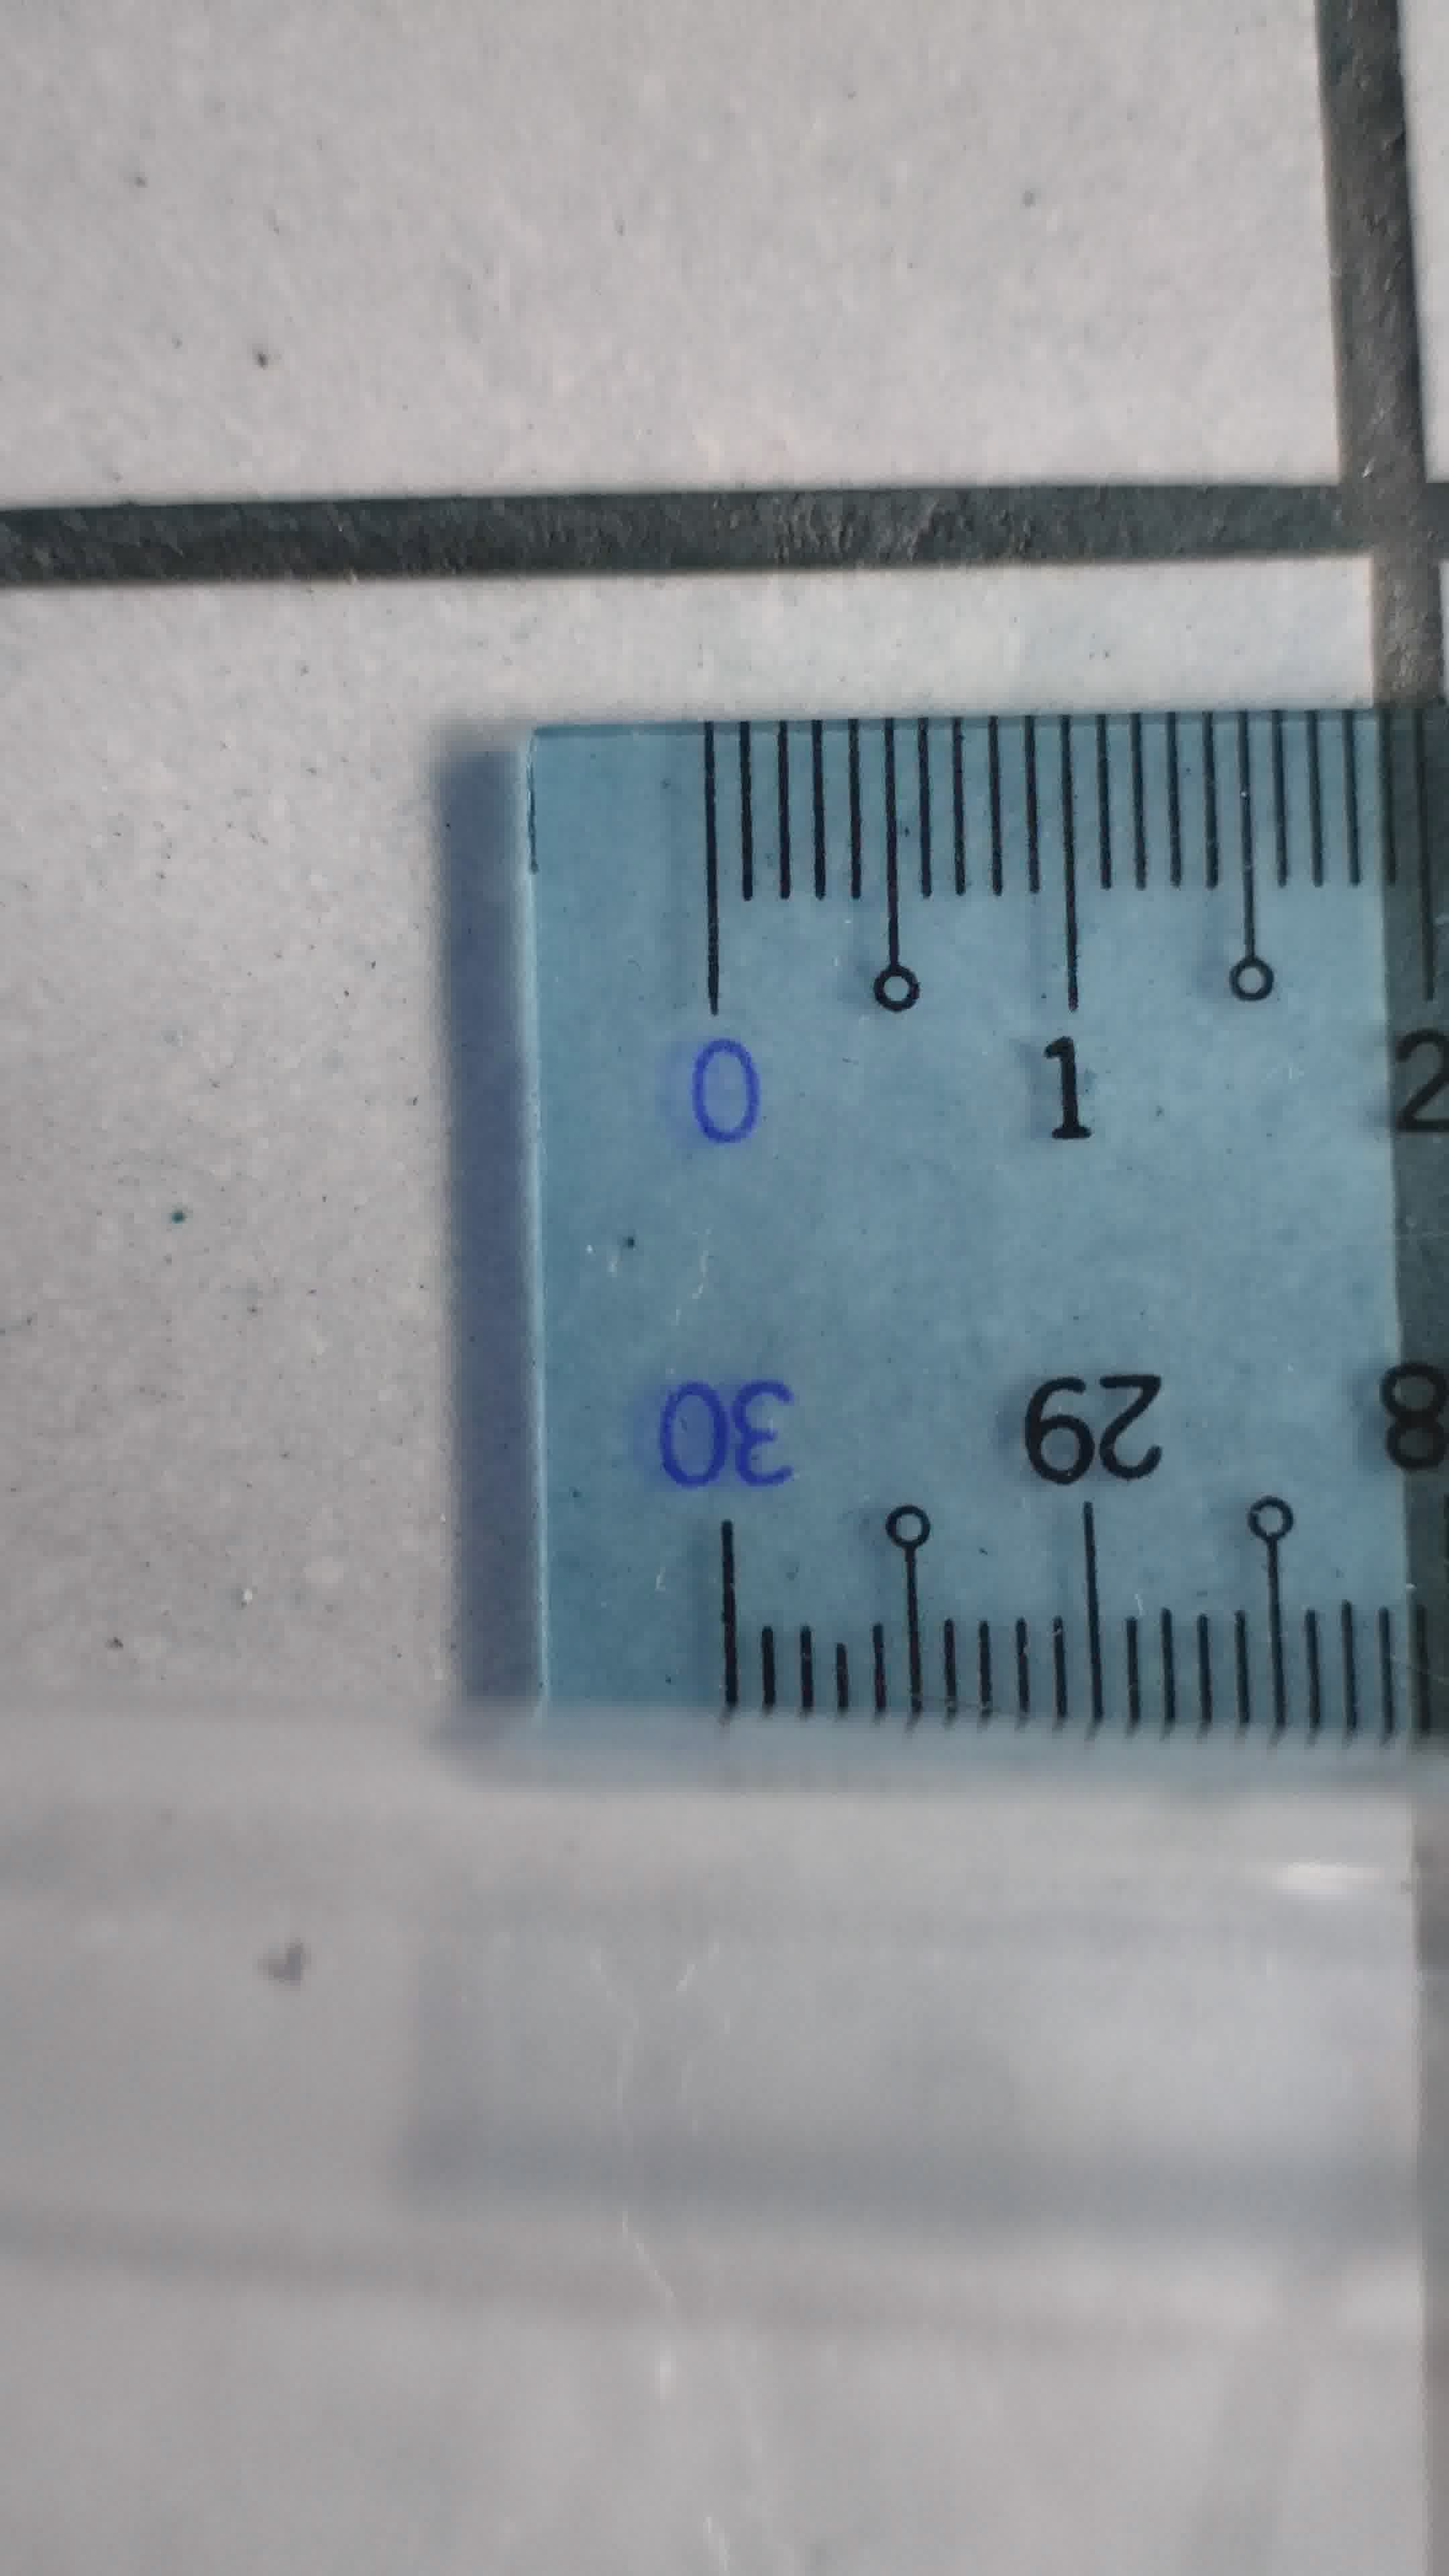
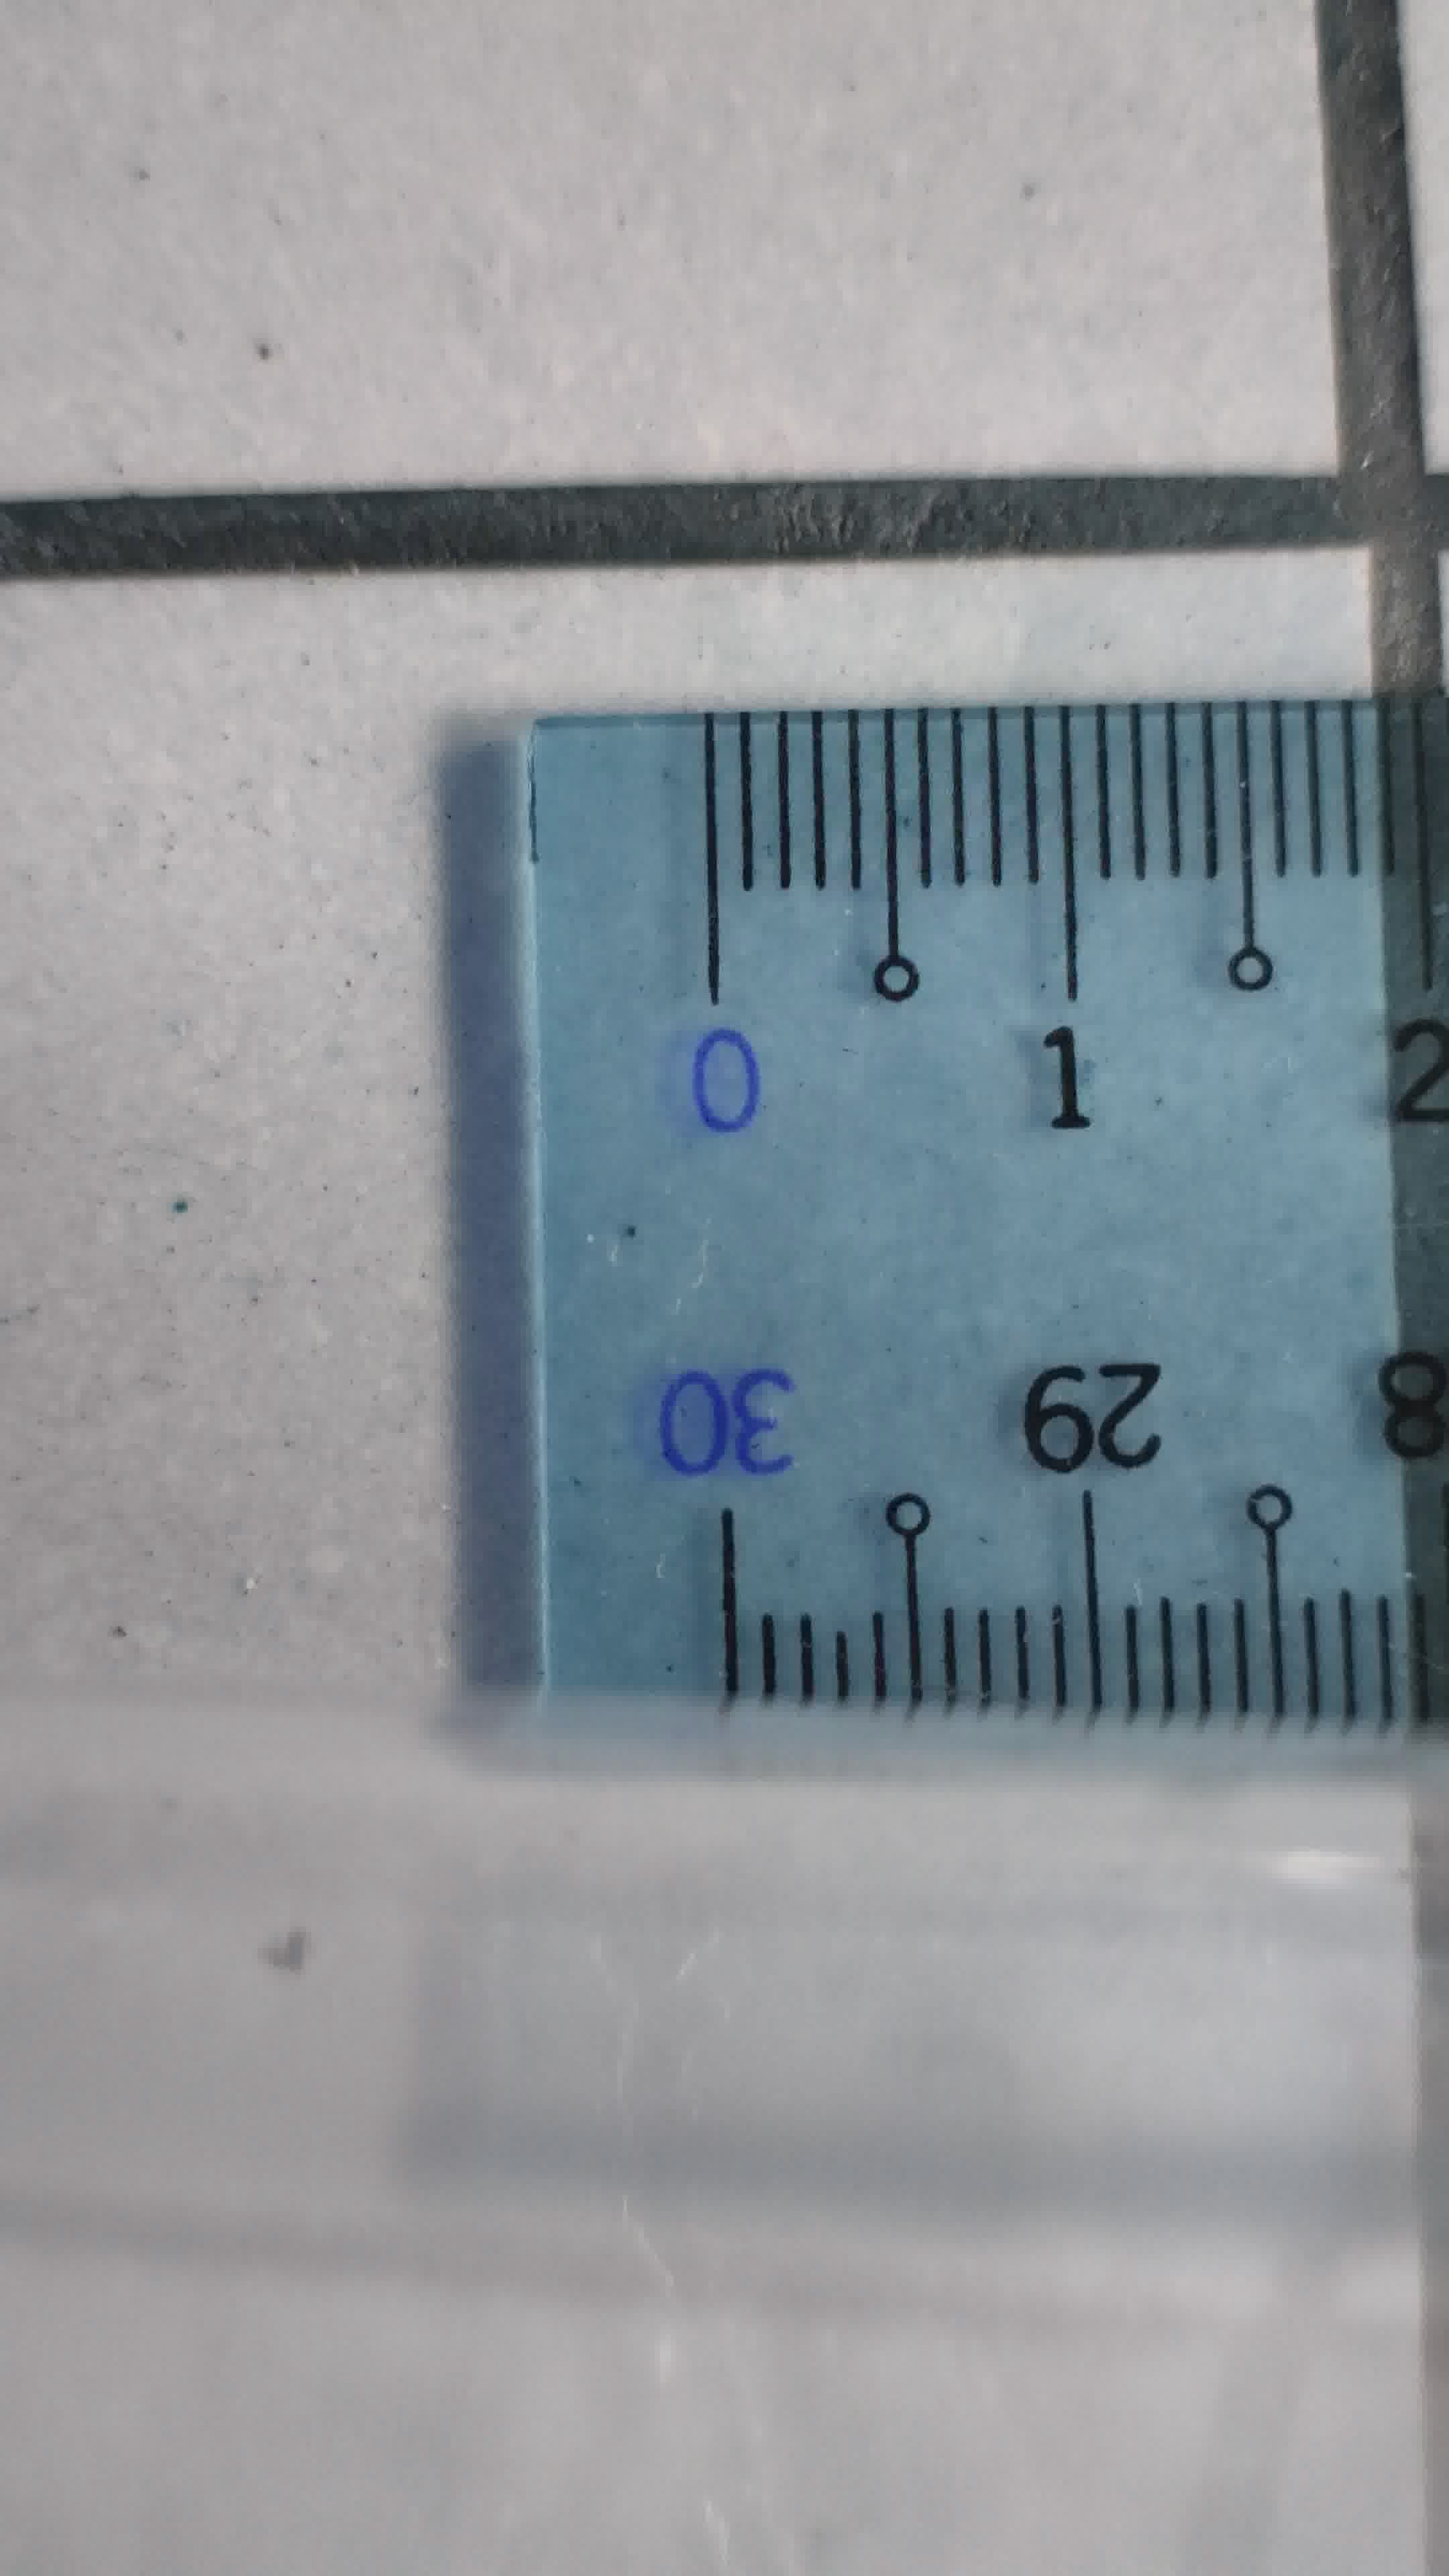
dd

diff --git a/doc/examples/SDLmain.cpp b/doc/examples/SDLmain.cpp
@@ -678,14 +678,15 @@ SDL_Texture* DuplicateAndScaleTexture(SDL_Renderer* renderer, SDL_Texture* srcTe
   SDL_SetRenderTarget(renderer, oldTarget);
   return dupTex;
 }
-void testToolBox2(const char *fname,const char *fDirectory,int x,int y);
+void testToolBox2(const char *fname,const char *fDirectory,int frame_index,int x,int y);
 void loadtmp(void);
-void getYUV(int frame_index,int x,int y,int *Y,int *U,int *V);
+void getYUV(const char *fDirectory,int frame_index,int x,int y,int *Y,int *U,int *V);
 int generateMP4(const char *path,const char cprefix);
 void generateTXT(void); //it need all data
 int dfvmux3diff_main(int argc, char **argv);
 void callext(const char *exename);
 void BLUE3x4(void);
+void act2(const char *fDirectory,int fi[]);
 //matrix computation
 #include "matrix.h"
 int sdl_main(int argc, char* argv[]) {
@@ -1037,10 +1038,11 @@ Redraw:
               if(ptClick.y<0) y0=0;
               if(picSN_FreeMode==0) picSN_FreeMode=1;
               sprintf(fname,"%s/x%04d.jpg",fDirectory,picSN_FreeMode);
-              testToolBox2(fname,fDirectory,x0,y0);
-              sprintf(fname,"%s/tmp.jpg",fDirectory);
+              testToolBox2(fname,fDirectory,picSN_FreeMode,x0,y0);
+              sprintf(fname,"img/x%04dt.jpg",picSN_FreeMode);
               surface = IMG_Load(fname);
               texture = SDL_CreateTextureFromSurface(gRenderer, surface);
+              SDL_FreeSurface(surface);
               scaleTexture = DuplicateAndScaleTexture(gRenderer, texture);
               PromptText = "testToolBox2 done!";
               printf("Enter Return pressed![%s](%d,%d))!\n",inputText.c_str(),ptClick.x,ptClick.y);
@@ -1070,8 +1072,8 @@ Redraw:
                 int x0=ptClick.x;
                 int y0=ptClick.y;
                 int Y0,U0,V0;
-                getYUV(frame_index0,x0,y0,&Y0,&U0,&V0);
-                sprintf(Prompt,"pt [%4d,%4d]=[%3d,%3d,%3d],[%3d,%3d,%3d]",x0,y0,Y0,U0,V0,
+                getYUV(fDirectory,frame_index0,x0,y0,&Y0,&U0,&V0);
+                sprintf(Prompt,"[%4d,%4d]=[%3d,%3d,%3d],[%3d,%3d,%3d]",x0,y0,Y0,U0,V0,
                   YUV2R(Y0,U0,V0),YUV2G(Y0,U0,V0),YUV2B(Y0,U0,V0));
                 PromptText = Prompt;
                 printf("Enter Return pressed![%s][%s]!\n",inputText.c_str(),Prompt);
@@ -1083,6 +1085,7 @@ Redraw:
             }
             else if(!memcmp(inputText.c_str(),"setsn",5)) {
               picSN_FreeMode=atoi(&inputText.c_str()[6]);
+              frame_index=picSN_FreeMode;
               printf("SN=%d\n",picSN_FreeMode);
               char fname[256];
               sprintf(fname,"%s/x%04d.jpg",fDirectory,picSN_FreeMode);
@@ -1186,6 +1189,7 @@ Redraw:
                 }
                 printf("%4d+,<%lld,%c>\n",__LINE__,inputText.length(),e.key.keysym.sym);
                 BLUE3x4();
+                act2(fDirectory,picSN);
                 break;
               }
               else if(e.key.keysym.mod==0x2000) { //CAPS
@@ -1375,6 +1379,20 @@ Redraw:
           if(ptClick.x==-1 && ptClick.y==-1) {
             ptClick.x = x;
             ptClick.y = y;
+
+//getYUV
+            char Prompt[256];
+            int frame_index0=picSN[nowpicID];
+            int x0=getw(ptClick.x);
+            int y0=geth(ptClick.y);
+            int Y0,U0,V0;
+            getYUV(fDirectory,frame_index0,x0,y0,&Y0,&U0,&V0);
+            sprintf(Prompt,"[%4d,%4d]=[%3d,%3d,%3d],[%3d,%3d,%3d]",x0,y0,Y0,U0,V0,
+              YUV2R(Y0,U0,V0),YUV2G(Y0,U0,V0),YUV2B(Y0,U0,V0));
+            PromptText = Prompt;
+            printf("Enter Return pressed![%s][%s]!\n",inputText.c_str(),Prompt);
+			renderText = true;
+
           }
           else {
             if(is_leftclick) {
@@ -1400,6 +1418,20 @@ Redraw:
               }
               else {
                 ptClick.x=x;  ptClick.y=y;
+
+              //getYUV
+                char Prompt[256];
+                int frame_index0=picSN[nowpicID];
+                int x0=getw(ptClick.x);
+                int y0=geth(ptClick.y);
+                int Y0,U0,V0;
+                getYUV(fDirectory,frame_index0,x0,y0,&Y0,&U0,&V0);
+                sprintf(Prompt,"[%4d,%4d]=[%3d,%3d,%3d],[%3d,%3d,%3d]",x0,y0,Y0,U0,V0,
+                  YUV2R(Y0,U0,V0),YUV2G(Y0,U0,V0),YUV2B(Y0,U0,V0));
+                PromptText = Prompt;
+                printf("Enter Return pressed![%s][%s]!\n",inputText.c_str(),Prompt);
+			    renderText = true;
+
               }
             }
             else {
@@ -1539,12 +1571,18 @@ Redraw:
 
     if (myButton[4].isPressed) {
       char imgbuf[256];
-      printf("%s(%4d) %s\n",__FILE__,__LINE__,argv[1]);
-      myButton[4].isPressed = false;          
-      getframe(argv[1], frame_index);
-      snprintf(imgbuf, sizeof(imgbuf), "img/x%03d.jpg",frame_index); 
+      char mp4buf[256];
+      myButton[4].isPressed = false;   
+//using setsn to change frame_index,fDirectory="../VID20260503072852"
+      memcpy(mp4buf,fDirectory+1,19);
+      memcpy(mp4buf+19,".mp4",4);
+      mp4buf[23]=0;
+//    getframe(argv[1], frame_index);
+      getframe(mp4buf, frame_index);
+      snprintf(imgbuf, sizeof(imgbuf), "img/x%04d.jpg",frame_index); 
+//    printf("%s(%4d)[%04d],%s\n",__FILE__,__LINE__,frame_index,argv[1]);
+      printf("%s(%4d)[%04d],%s,%s\n",__FILE__,__LINE__,frame_index,mp4buf,imgbuf);
       surface = IMG_Load(imgbuf);
-
       texture = SDL_CreateTextureFromSurface(gRenderer, surface);          
     }
 

diff --git a/doc/examples/toolbox2.cpp b/doc/examples/toolbox2.cpp
@@ -923,7 +923,7 @@ static int writeframejpg(AVFormatContext *fmt_ctx, AVCodecContext *c,
     //Write the compressed frame to the media file.
     //log_packet(fmt_ctx, pkt);
 
-      snprintf(imgbuf, sizeof(imgbuf), "img/x%03d.jpg",frame_index); 
+      snprintf(imgbuf, sizeof(imgbuf), "img/x%04d.jpg",frame_index); 
 //    savePicture(filt_frame, imgbuf);
       savePicture(frame, imgbuf);
       printf("fname=%s\n",imgbuf);
@@ -1383,6 +1383,7 @@ const AVCodec *codec = NULL;
 AVPacket *packet = NULL;
 AVFrame *frame = NULL;
 AVFrame *getFrame(const char *filename) {
+   if(format_ctx) avformat_close_input(&format_ctx);
    packet = av_packet_alloc();
    frame  = av_frame_alloc();
   // 1. Open the input file
@@ -1467,7 +1468,7 @@ void freeAll(void) {
   format_ctx = NULL;
 }
 #define ALGORITHM0 0
-void testToolBox2(const char*fname,const char *fDirectory,int x,int y) {
+void testToolBox2(const char *fname,const char *fDirectory,int frame_index,int x,int y) {
   int x0=x,x2;
   int y0=y,y2;
 #if ALGORITHM0
@@ -1513,14 +1514,15 @@ void testToolBox2(const char*fname,const char *fDirectory,int x,int y) {
       }  
     }
   }
-  sprintf(tfname,"%s/tmp.jpg",fDirectory);
+//sprintf(tfname,%s/tmp.jpg",fDirectory);
+  sprintf(tfname,"img/x%04dt.jpg",frame_index);
   savePicture(aframe, tfname);
   aframe=aframe;
 }
-void getYUV(int frame_index,int x,int y,int *Y,int *U,int *V) {
+void getYUV(const char *fDirectory,int frame_index,int x,int y,int *Y,int *U,int *V) {
   char fname[256];
-  sprintf(fname,"../VID20260802132623/x%04d.jpg",frame_index); //
-  printf("%s(%4d) (%4d,%4d)\n",__FILE__,__LINE__,x,y);
+  sprintf(fname,"%s/x%04d.jpg",fDirectory,frame_index); //
+  printf("%s(%4d) (%4d,%4d) %s\n",__FILE__,__LINE__,x,y,fname);
   AVFrame *aframe=getFrame(fname);
   if(x>=0 && y>0 && x<codec_ctx->width && y<codec_ctx->height) {
     *Y=frame->data[0][y * frame->linesize[0] + x];
@@ -1911,4 +1913,9 @@ void callext(const char *exename) {
   if (result != 0) {
     printf("%s(%d) %d,External command failed or returned non-zero.\n",__FILE__,__LINE__,result);
   }
+}
+void act2(const char *fDirectory,int fi[])
+{
+//??????????
+  printf("arithmetic category theory](%s)%3d,%3d,%3d\n",fDirectory,fi[0],fi[1],fi[2]);
 }
